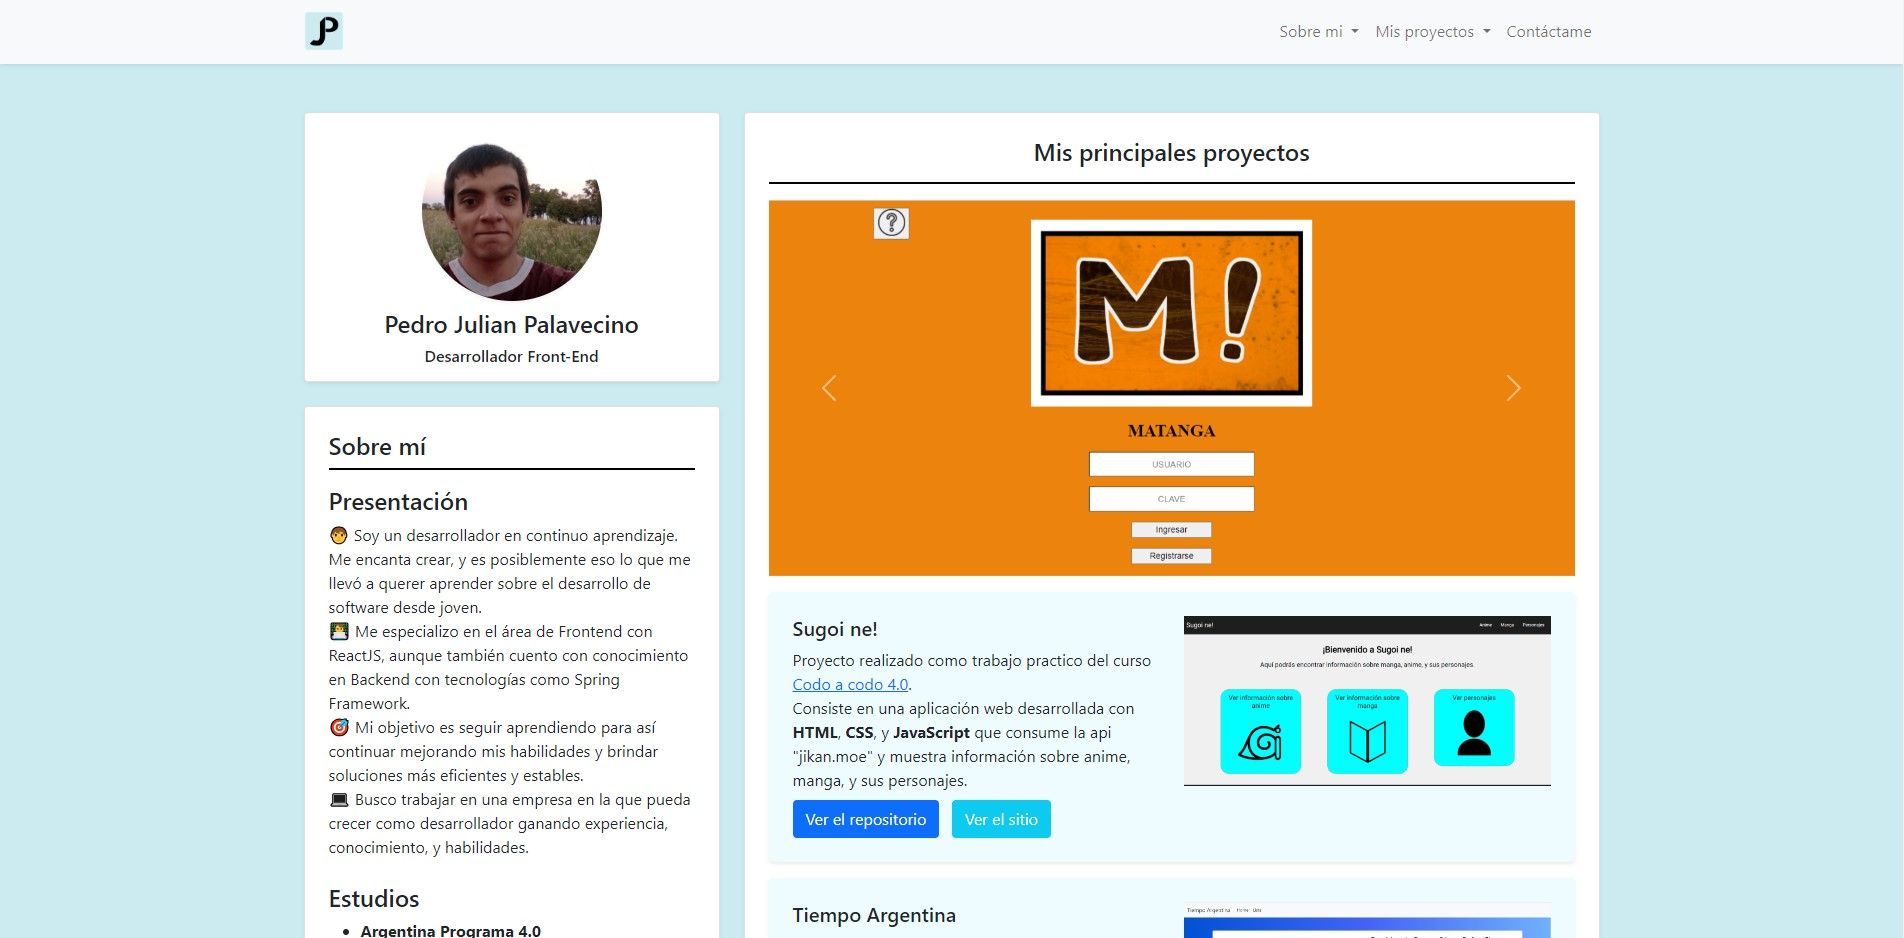
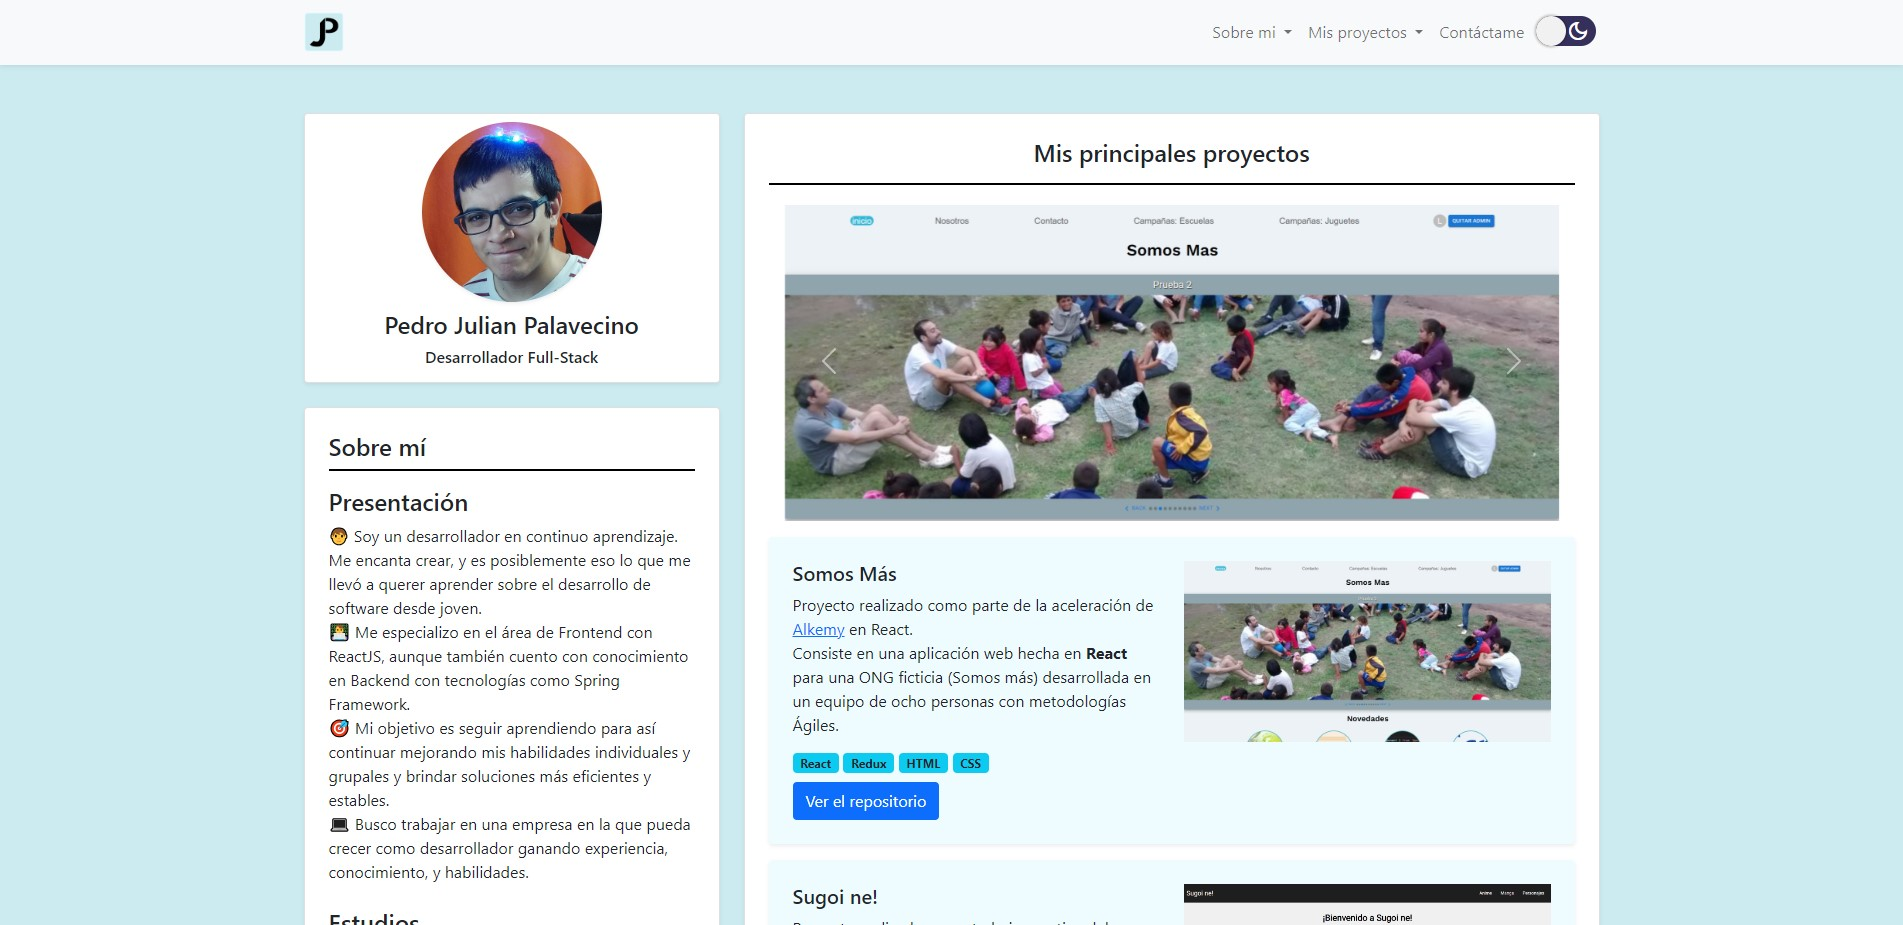
Update info
Update description

Update metadata

Update Tiempo Argentina project image

diff --git a/index.html b/index.html
@@ -3,7 +3,7 @@
   <head>
     <meta charset="utf-8">
     <meta name="viewport" content="width=device-width, initial-scale=1">
-    <meta property="og:title" content="Pedro Julian Palavecino - Desarrollador Front-End" />
+    <meta property="og:title" content="Pedro Julian Palavecino - Desarrollador Full-Stack" />
     <meta property="og:description" content="Aquí puedes ver algunos de los proyectos en los que trabajo." />
     <meta property="og:image" content="https://julian-palavecino.netlify.app/images/portfolio.jpg" />
     <link 
@@ -13,7 +13,7 @@
       crossorigin="anonymous">
     <link rel="stylesheet" href="css/styles.css">
     <link rel="icon" href="images/favicon.ico">
-    <title>Pedro Julian Palavecino - Desarrollador Front-End</title>
+    <title>Pedro Julian Palavecino - Desarrollador Full-Stack</title>
     <link rel="stylesheet" href="https://fonts.googleapis.com/css2?family=Material+Symbols+Outlined:opsz,wght,FILL,GRAD@20..48,100..700,0..1,-50..200" />
   </head>
   <body>
@@ -81,7 +81,7 @@
                 <div class="item text-center">
                   <img class="profile-image img-fluid rounded-circle mb-2 shadow-sm" src="images/profile_picture.png" width="180" height="180">
                   <h4>Pedro Julian Palavecino</h4>
-                  <h6>Desarrollador Front-End</h6>
+                  <h6>Desarrollador Full-Stack</h6>
                 </div>
               </div>
             </div>
@@ -96,8 +96,8 @@
                 <div class="info-container">
                   <div class="info-title" id="presentacion">
                     <h4 class="title">Presentación</h4>
-                    <p>🧑 Soy un desarrollador en continuo aprendizaje. Me encanta crear, y es posiblemente eso lo que me llevó a querer aprender sobre el desarrollo de software desde joven.</p>
-                    <p>👨💻 Me especializo en el área de Frontend con ReactJS, aunque también cuento con conocimiento en Backend con tecnologías como Spring Framework.</p>
+                    <p>🧑 Soy un desarrollador con mucho entusiasmo y en continuo aprendizaje. Me encanta crear, y es posiblemente eso lo que me llevó a querer aprender sobre el desarrollo de software desde joven.</p>
+                    <p>👨💻 Me especializo en el área de Frontend con ReactJS, aunque también me desempeño cómodamente en Backend con tecnologías como Spring Framework y Node.js.</p>
                     <p>🎯 Mi objetivo es seguir aprendiendo para así continuar mejorando mis habilidades individuales y grupales y brindar soluciones más eficientes y estables.</p>
                     <p>💻 Busco trabajar en una empresa en la que pueda crecer como desarrollador ganando experiencia, conocimiento, y habilidades.</p>
                   </div>
@@ -134,7 +134,7 @@
                       <li><b>Frontend</b></li>
                       <p>HTML, CSS, JavaScript, React</p>
                       <li><b>Backend</b></li>
-                      <p>SQL, Java, Spring, Python, Django</p>
+                      <p>SQL, Java, Spring, Python, Node, Django</p>
                       <li><b>Otras herramientas</b></li>
                       <p>PyQt5, Postman, GIT</p>
                     </ul>
@@ -191,7 +191,7 @@
                   </div>
                   <div class="carousel-item">
                     <a class="dropdown-item" href="#proyecto_tiempo_argentina">
-                      <img src="images/cover/2.png" class="project-img-carousel d-block w-100" alt="Proyectos">
+                      <img src="images/cover/2.jpg" class="project-img-carousel d-block w-100" alt="Proyectos">
                     </a>
                   </div>
                   <div class="carousel-item">
@@ -278,7 +278,7 @@
                     </div>
                     <div class="text-center col">
                       <a href="https://tiempoargentina.netlify.app/" target="_blank">
-                        <img class="project-img" src="images/cover/2.png" width="100%">
+                        <img class="project-img" src="images/cover/2.jpg" width="100%">
                       </a>
                     </div>
                   </div>
